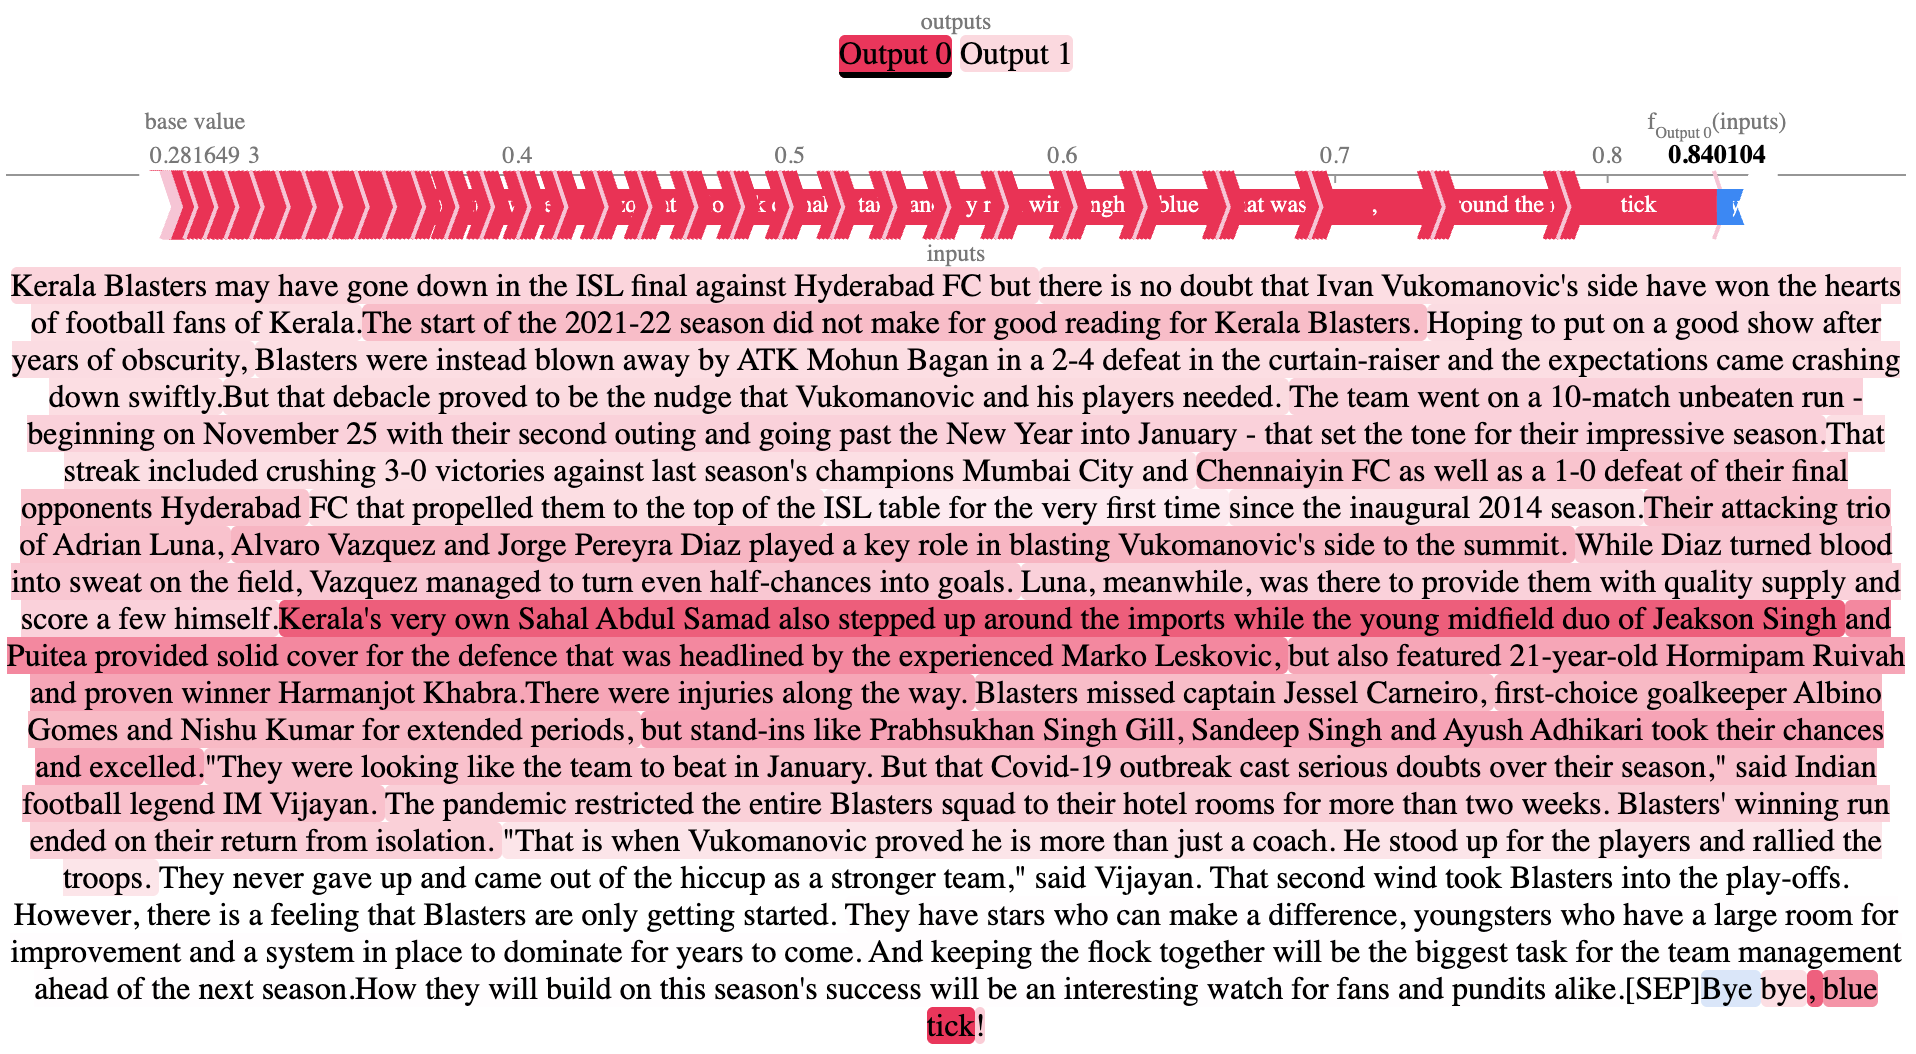
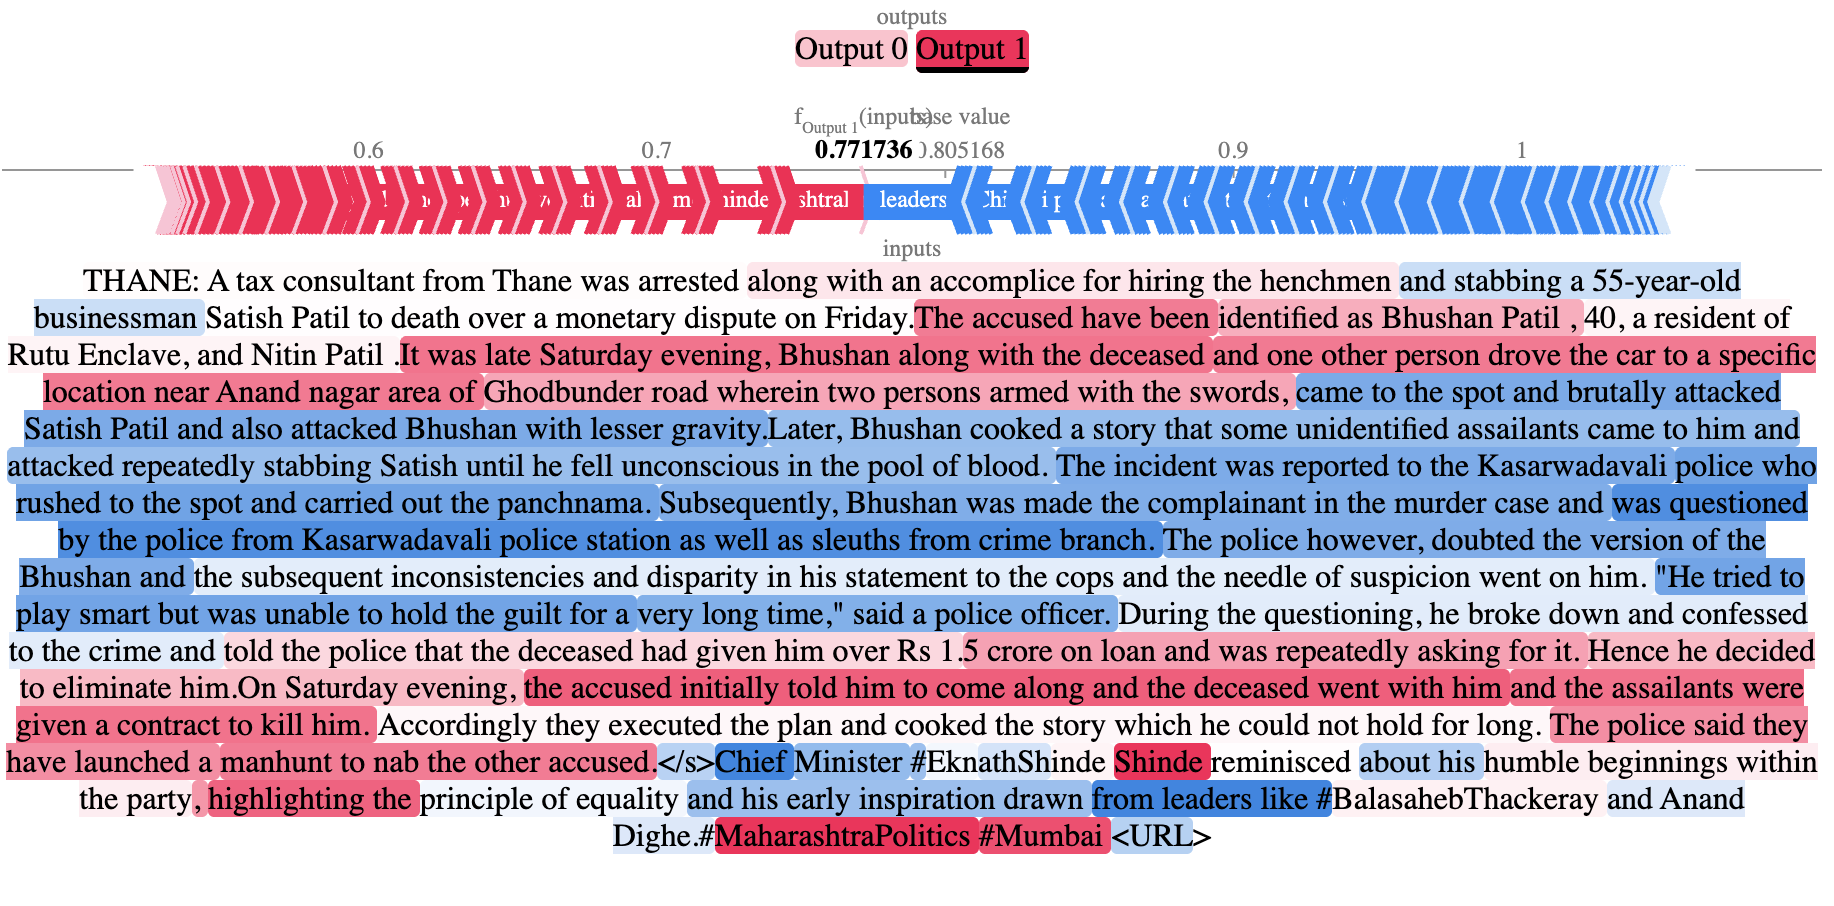
Minor updates for thumbnails

diff --git a/_projects/(2)Harmful Brain Activity Classification.md b/_projects/(2)Harmful Brain Activity Classification.md
@@ -1,6 +1,6 @@
 ---
 name: EEG-based Harmful Brain Activity Classification using Deep Learning
-tools: [Python, PyTorch, Machine Learning, CNN, XAI]
+tools: [Python, PyTorch, Machine Learning, CNN, ResNET, XAI]
 image: ../assets/images/HBAproject/gradcam.png
 description: EEG signals are inherently challenging to interpret, even for trained clinicians. This study investigates whether deep learning models can accurately detect harmful brain activity from EEG data, while also addressing the interpretability of model predictions.
 ---
